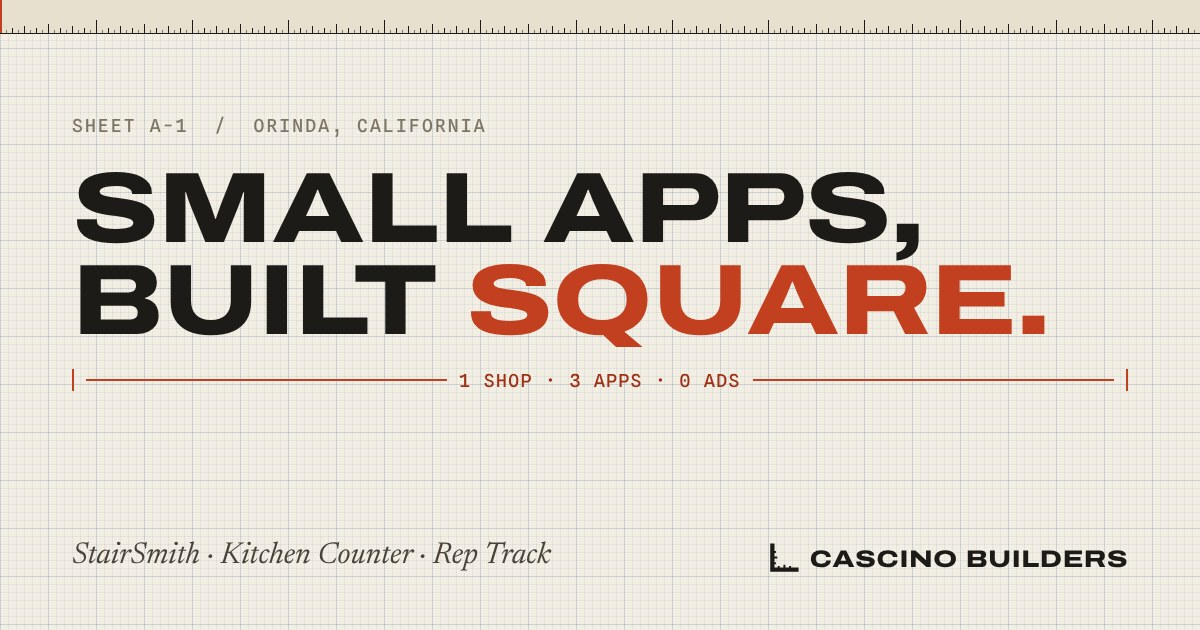
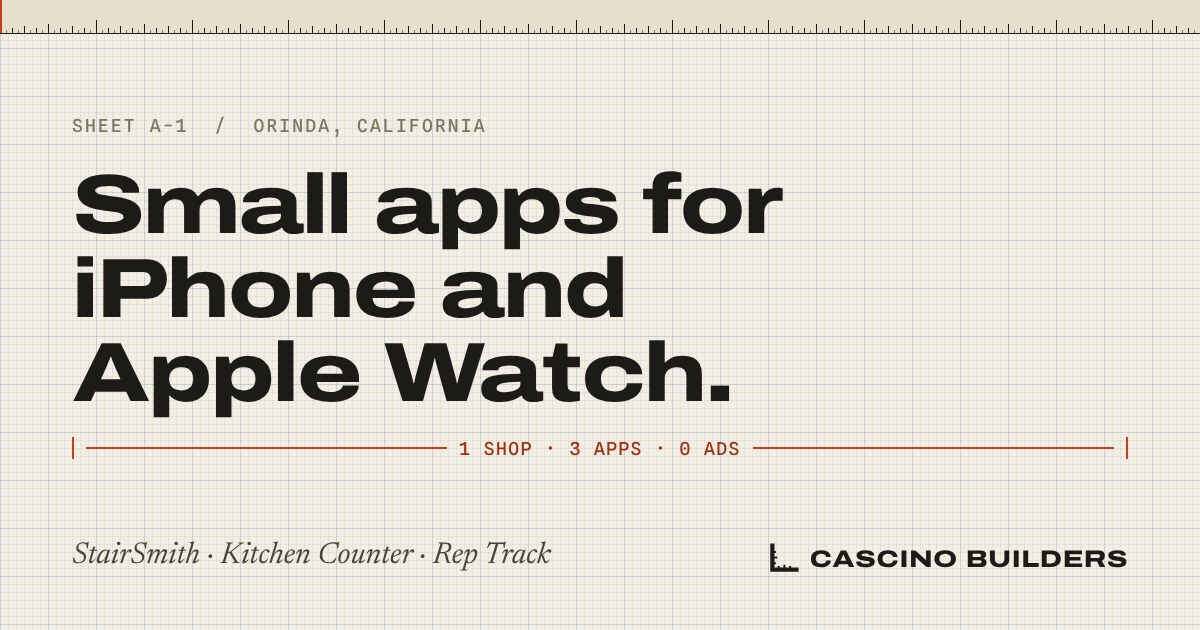
Replace the 'built square' tagline with a plain headline
The pun didn't say what the shop makes. The hero, page title, OG image and
meta tags now read 'Small apps for iPhone and Apple Watch.' CLAUDE.md gets
a no-puns rule for headlines.

Claude-Session: https://claude.ai/code/session_01YWdLQoNbp7ceFNzdbetSKz

Changed region(s): [[0.0617, 0.2714, 0.8942, 0.6635], [0.0925, 0.6937, 0.6167, 0.7238], [0.6475, 0.6937, 0.925, 0.7238]]

diff --git a/index.html b/index.html
@@ -3,18 +3,18 @@
 <head>
 <meta charset="utf-8">
 <meta name="viewport" content="width=device-width, initial-scale=1, viewport-fit=cover">
-<title>Cascino Builders · Small apps, built square</title>
+<title>Cascino Builders · Small apps for iPhone and Apple Watch</title>
 <meta name="description" content="Cascino Builders is a one-person app shop in Orinda, California. StairSmith, Kitchen Counter and Rep Track: no accounts, no ads, no tracking.">
 <meta name="theme-color" content="#f3eee3">
 <link rel="canonical" href="https://cascinobuilders.com/">
 <meta property="og:type" content="website">
 <meta property="og:url" content="https://cascinobuilders.com/">
-<meta property="og:title" content="Cascino Builders · Small apps, built square">
+<meta property="og:title" content="Cascino Builders · Small apps for iPhone and Apple Watch">
 <meta property="og:description" content="A one-person app shop in Orinda, California. No accounts, no ads, no tracking.">
 <meta property="og:image" content="https://cascinobuilders.com/og.jpg">
 <meta property="og:image:width" content="1200">
 <meta property="og:image:height" content="630">
-<meta property="og:image:alt" content="Cascino Builders: small apps, built square. Orinda, California.">
+<meta property="og:image:alt" content="Cascino Builders: small apps for iPhone and Apple Watch. Orinda, California.">
 <meta name="twitter:card" content="summary_large_image">
 <link rel="icon" href="/favicon.svg" type="image/svg+xml">
 <link rel="apple-touch-icon" href="/apple-touch-icon.png">
@@ -46,7 +46,7 @@
   <p class="label hero-sheet"><span>Sheet A-1</span><span>Orinda, California</span><span>Scale 1:1</span></p>
 
   <div class="hero-title">
-    <h1 class="display"><span class="w w1">Small apps,</span> <span class="w w2">built <em>square.</em></span></h1>
+    <h1 class="display"><span class="w w1">Small apps for</span> <span class="w w2">iPhone and Apple&nbsp;Watch.</span></h1>
     <div class="dim-line" aria-hidden="true">
       <span class="dim-tick"></span><span class="dim-rule"></span>
       <span class="dim-text">1 shop · 3 apps · 0 ads</span>

diff --git a/tools/og.html b/tools/og.html
@@ -10,8 +10,7 @@
   #og .ruler { position: absolute; left: 0; right: 0; top: 0; height: 34px; }
   #og .in { position: absolute; left: 72px; right: 72px; top: 96px; }
   #og .label { font-size: 18px; }
-  #og h1 { margin: 26px 0 0; font-size: 100px; }
-  #og h1 em { font-style: normal; color: var(--mark); }
+  #og h1 { margin: 26px 0 0; font-size: 84px; text-transform: none; letter-spacing: -.025em; line-height: 1; }
   #og .dl { margin-top: 22px; display: flex; align-items: center; gap: 12px; color: var(--mark); }
   #og .dl i { width: 2px; height: 22px; background: currentColor; } #og .dl b { flex: 1; height: 2px; background: currentColor; }
   #og .dl span { font: 500 18px var(--mono); letter-spacing: .08em; text-transform: uppercase; color: var(--mark-ink); }
@@ -24,7 +23,7 @@
   <div class="ruler"></div>
   <div class="in">
     <p class="label">Sheet A-1 &nbsp;/&nbsp; Orinda, California</p>
-    <h1 class="display">Small apps,<br>built <em>square.</em></h1>
+    <h1 class="display">Small apps for<br>iPhone and Apple&nbsp;Watch.</h1>
     <div class="dl"><i></i><b></b><span>1 shop · 3 apps · 0 ads</span><b></b><i></i></div>
   </div>
   <div class="foot">

diff --git a/assets/home.css b/assets/home.css
@@ -12,11 +12,11 @@
 .hero-title { display: inline-block; max-width: 100%; }
 .hero h1 {
   margin: 0;
-  font-size: clamp(46px, 8.6vw, 128px);
+  font-size: clamp(40px, 7.4vw, 112px);
   font-weight: 850;
+  text-transform: none; letter-spacing: -.025em; line-height: 1;
 }
 .hero h1 .w { display: block; }
-.hero h1 em { font-style: normal; color: var(--mark); }
 
 .dim-line {
   display: flex; align-items: center; gap: 10px;

diff --git a/CLAUDE.md b/CLAUDE.md
@@ -31,6 +31,7 @@ Keep every new page inside this system; don't drift back to a generic app-landin
 - Write in the first person: one person runs the shop. Say plain, specific things.
 - Only claim what the app's own privacy, support or FAQ page says. Don't invent
   features, prices or App Store links. Prices go on the app's own page, not the home page.
+- Headlines say what the thing is. No puns, idioms or wordplay taglines.
 - Avoid filler like "seamless", "elevate", "unlock", "effortless" or "revolutionary".
   Avoid em-dash chains and three-adjective lists.
 
